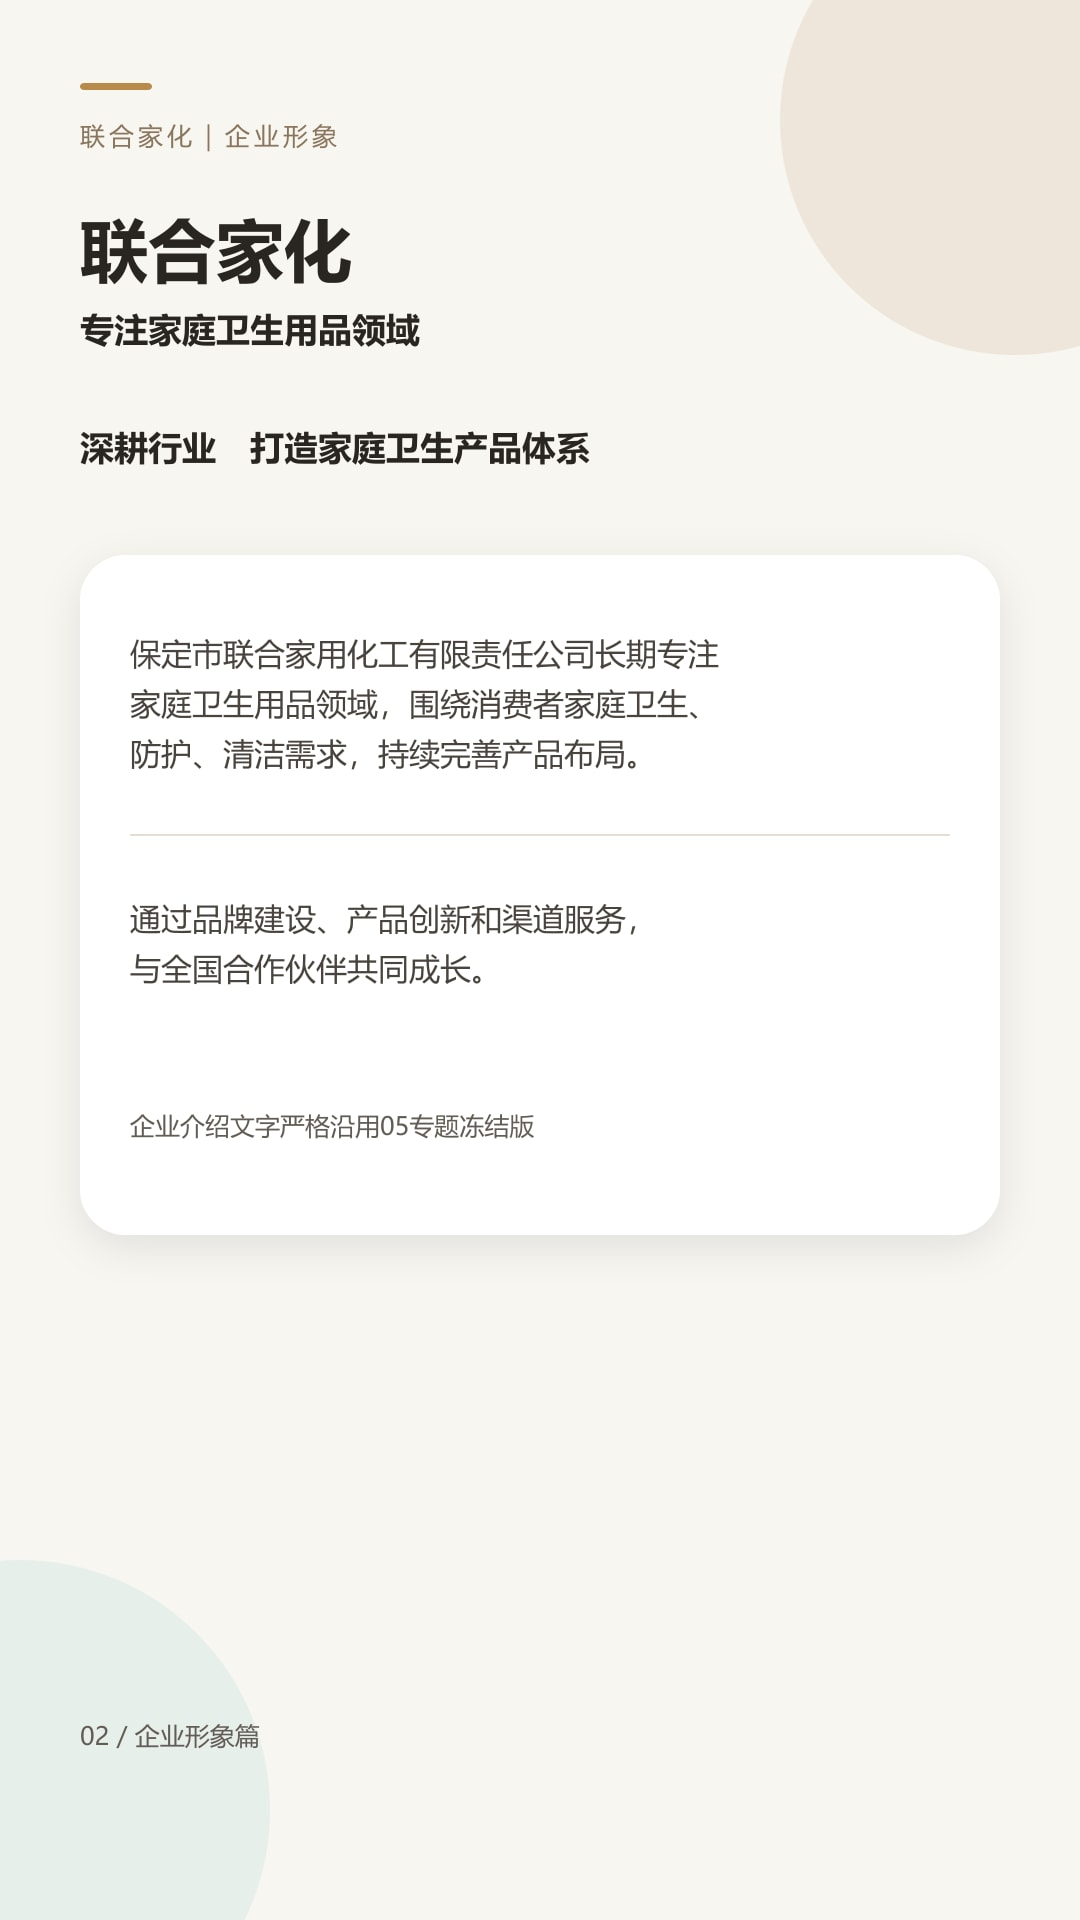
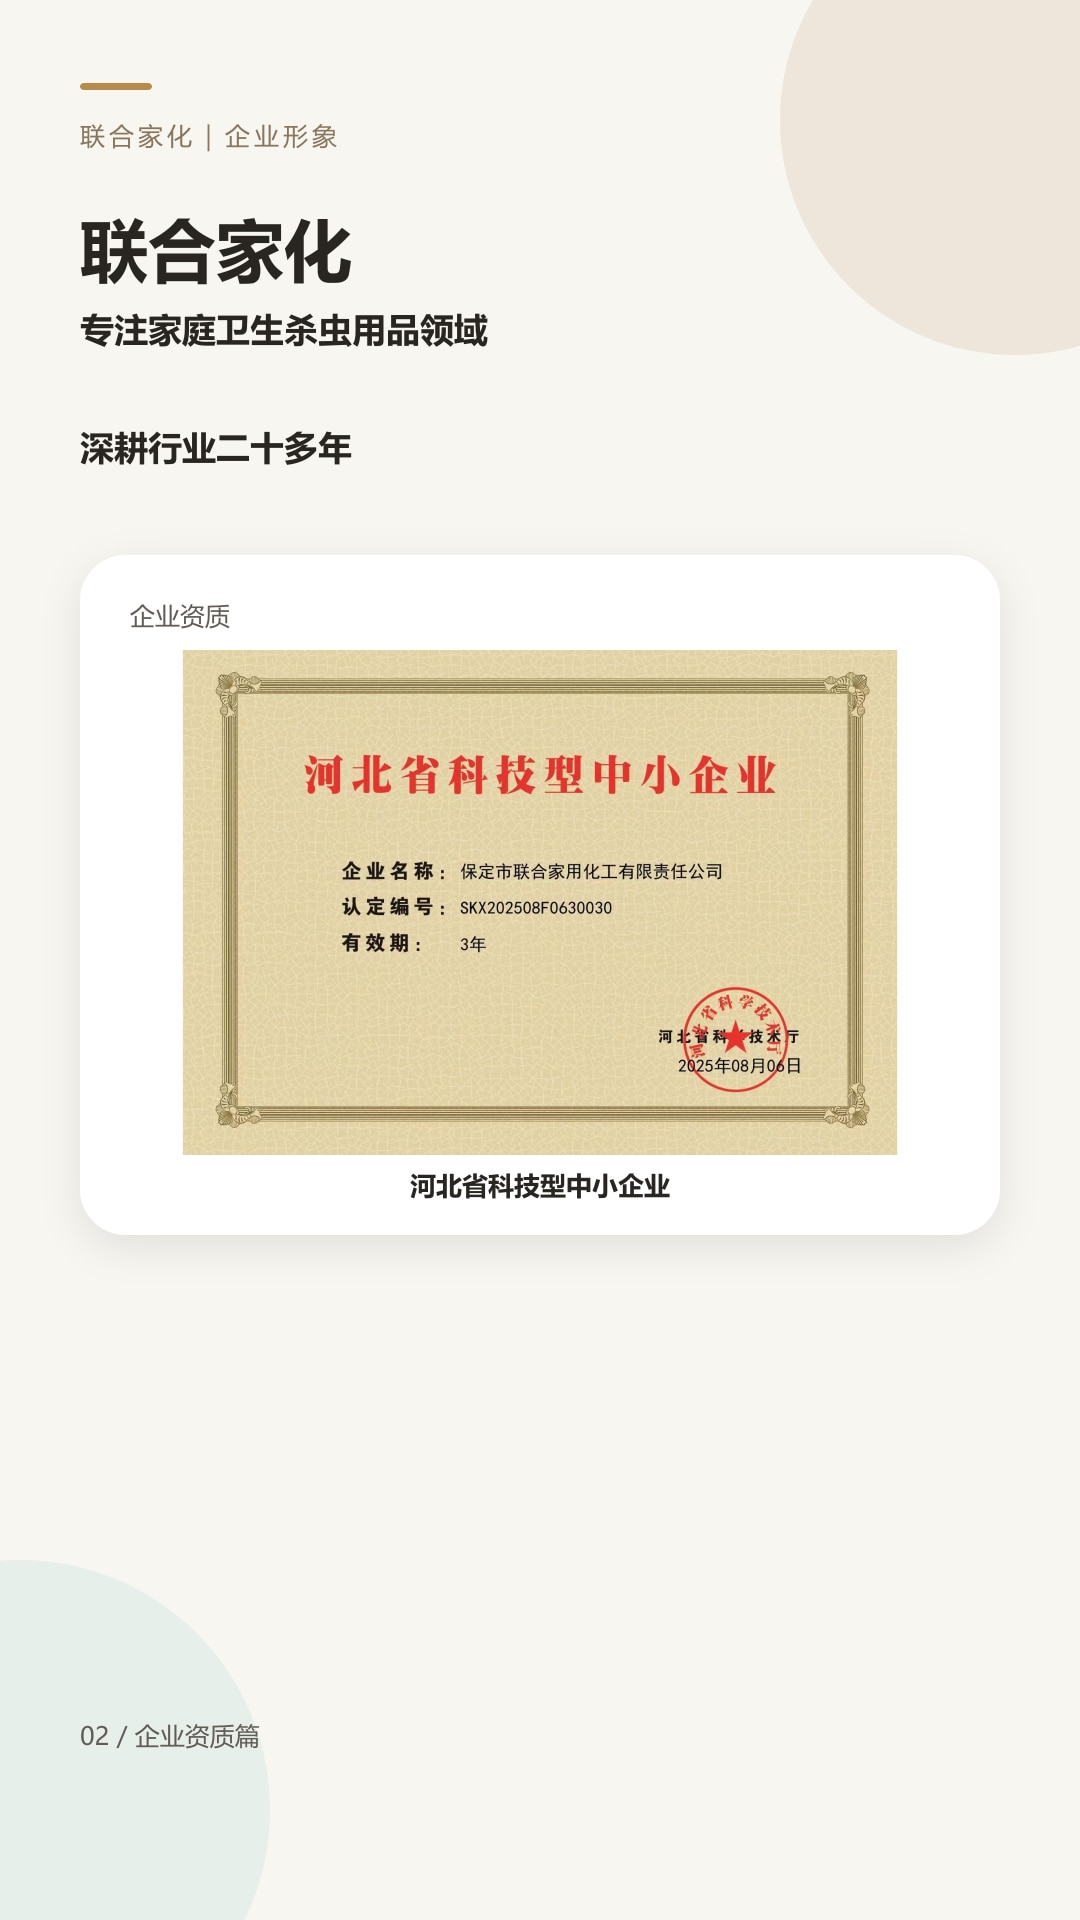
Move technology certificate to page two and reduce book to 29 pages

diff --git a/index.html b/index.html
@@ -21,7 +21,7 @@
     <button id="nextTap" class="tap-zone right" aria-label="下一页"></button>
   </main>
   <nav class="bottomnav" aria-label="阅读导航">
-    <button id="prevBtn">上一页</button><span id="counter">1 / 30</span><button id="nextBtn">下一页</button>
+    <button id="prevBtn">上一页</button><span id="counter">1 / 29</span><button id="nextBtn">下一页</button>
   </nav>
   <aside id="drawer" class="drawer" aria-hidden="true">
     <div class="drawer-head"><strong>全书目录</strong><button id="closeBtn" aria-label="关闭目录">关闭</button></div>
@@ -32,8 +32,7 @@
   <script>
 const pages = [
   {id:"COVER",title:"封面",section:"全书",src:"pages/COVER.jpg"},
-  {id:"ENT-INTRO",title:"企业介绍",section:"企业篇",src:"pages/ENT-INTRO.jpg"},
-  {id:"ENT-STRENGTH",title:"企业实力",section:"企业篇",src:"pages/ENT-STRENGTH.jpg"},
+  {id:"ENT-INTRO",title:"企业资质",section:"企业篇",src:"pages/ENT-INTRO.jpg"},
   {id:"ENT-MARKET",title:"市场布局",section:"企业篇",src:"pages/ENT-MARKET.jpg"},
   {id:"DIR-001",title:"全书主目录",section:"全书",src:"pages/DIR-001.jpg"},
   {id:"SEC-JZ",title:"健字产品专区",section:"健字",src:"pages/SEC-JZ.jpg"},
@@ -77,7 +76,7 @@ const links = {
     [7.4,22.4,85.2,12.3,'ENT-INTRO','进入企业篇'],[7.4,37.2,85.2,12.3,'SEC-JZ','进入品牌与产品'],
     [7.4,52.1,85.2,12.3,'COOP-001','进入招商合作'],[7.4,66.9,85.2,12.3,'CONTACT','进入联系方式']],
   'ENT-MARKET': [[7.4,77.0,85.2,8.5,'SEC-JZ','查看品牌与产品']],
-  'ENT-STRENGTH': [[10.5,56.5,79,25,'@cert','点击查看资质证书大图']],
+  'ENT-INTRO': [[10.5,33.8,79,31,'@cert','点击查看资质证书大图']],
   'SEC-JZ': ['JZ-P001','JZ-P002','JZ-P003','JZ-P004','JZ-P005','JZ-P006','JZ-P007'],
   'SEC-YJ': ['YJ-P001','YJ-P002','YJ-P003','YJ-P004'],
   'SEC-JGB': ['JGB-P001','JGB-P002'],

diff --git a/sw.js b/sw.js
@@ -1,1 +1,1 @@
-const C='topic6-v1-cover-final';const CORE=['./','./index.html','./style.css','./manifest.webmanifest','./icon-192.png'];self.addEventListener('install',e=>e.waitUntil(caches.open(C).then(c=>c.addAll(CORE)).then(()=>self.skipWaiting())));self.addEventListener('activate',e=>e.waitUntil(caches.keys().then(keys=>Promise.all(keys.filter(k=>k!==C).map(k=>caches.delete(k)))).then(()=>self.clients.claim())));self.addEventListener('fetch',e=>e.respondWith(caches.match(e.request).then(r=>r||fetch(e.request).then(x=>{const y=x.clone();caches.open(C).then(c=>c.put(e.request,y));return x;}))));
+const C='topic6-v1-29pages';const CORE=['./','./index.html','./style.css','./manifest.webmanifest','./icon-192.png'];self.addEventListener('install',e=>e.waitUntil(caches.open(C).then(c=>c.addAll(CORE)).then(()=>self.skipWaiting())));self.addEventListener('activate',e=>e.waitUntil(caches.keys().then(keys=>Promise.all(keys.filter(k=>k!==C).map(k=>caches.delete(k)))).then(()=>self.clients.claim())));self.addEventListener('fetch',e=>e.respondWith(caches.match(e.request).then(r=>r||fetch(e.request).then(x=>{const y=x.clone();caches.open(C).then(c=>c.put(e.request,y));return x;}))));
